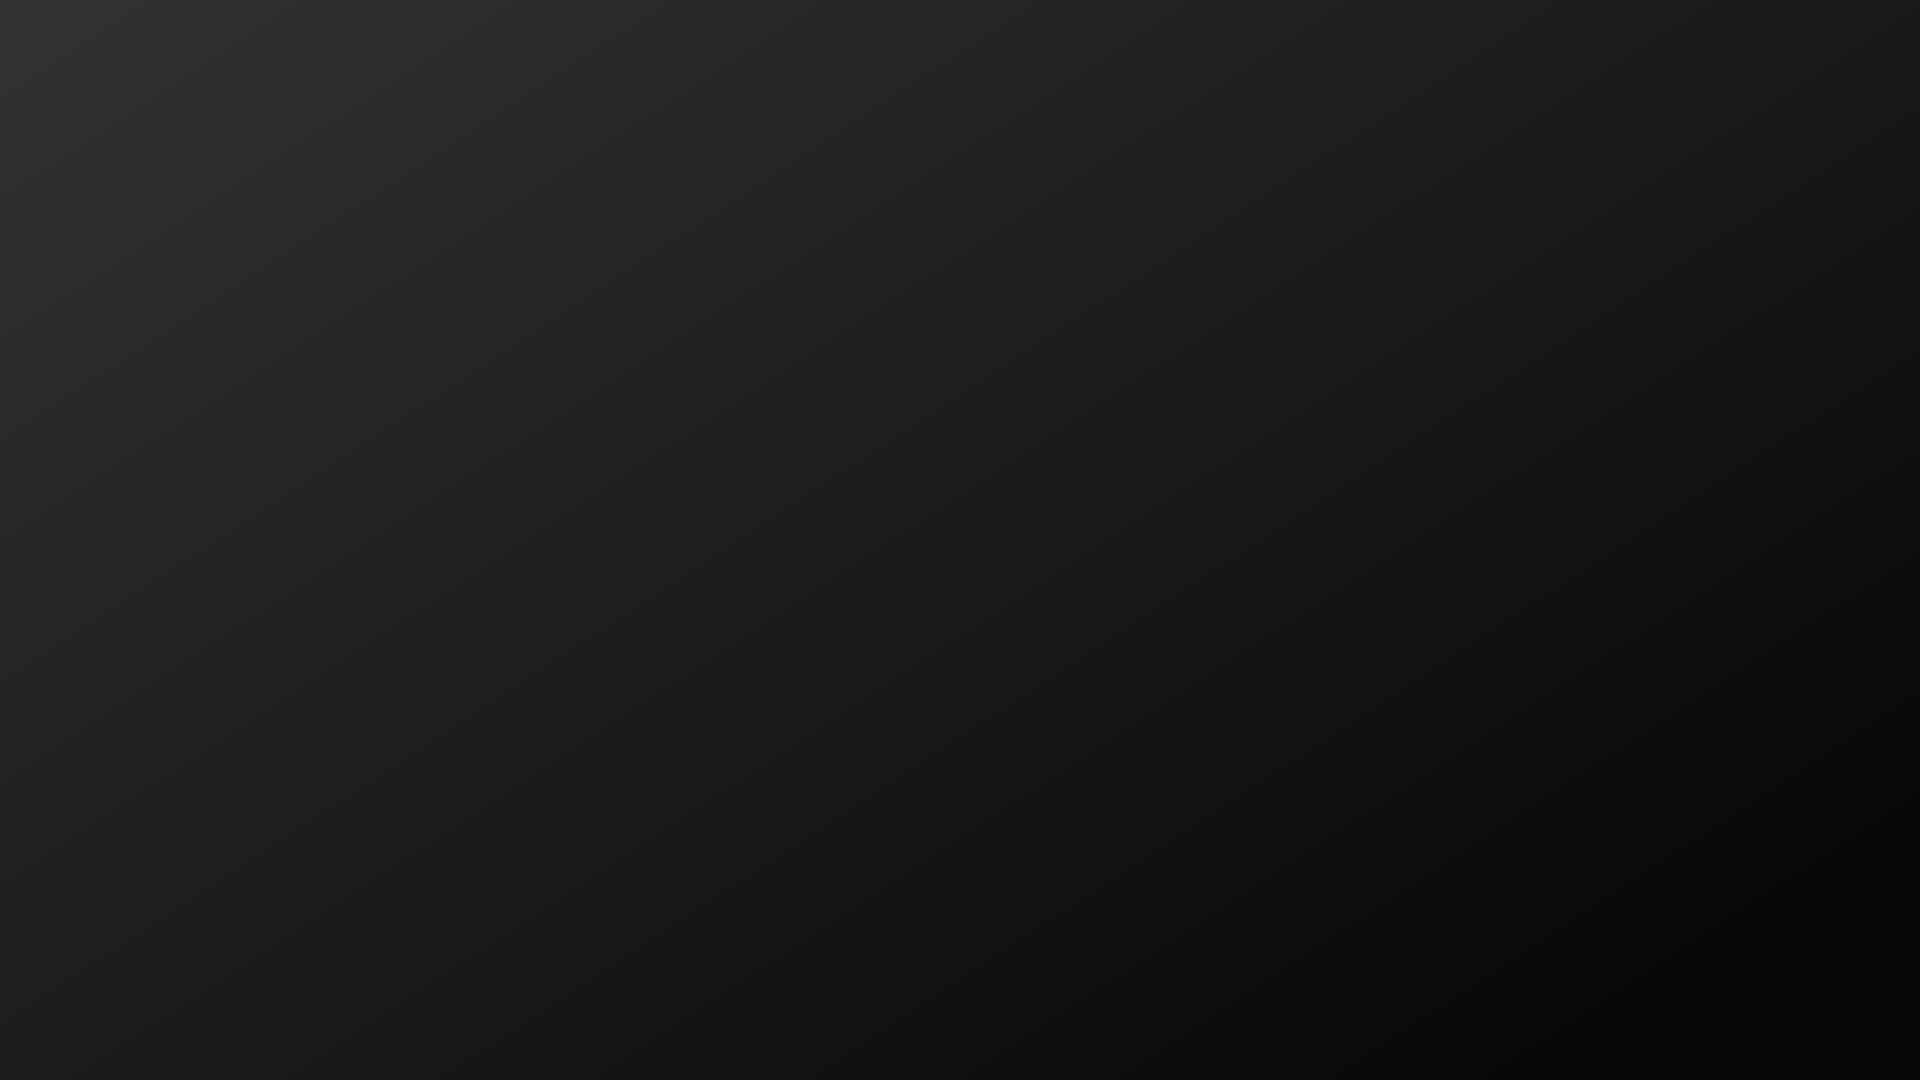
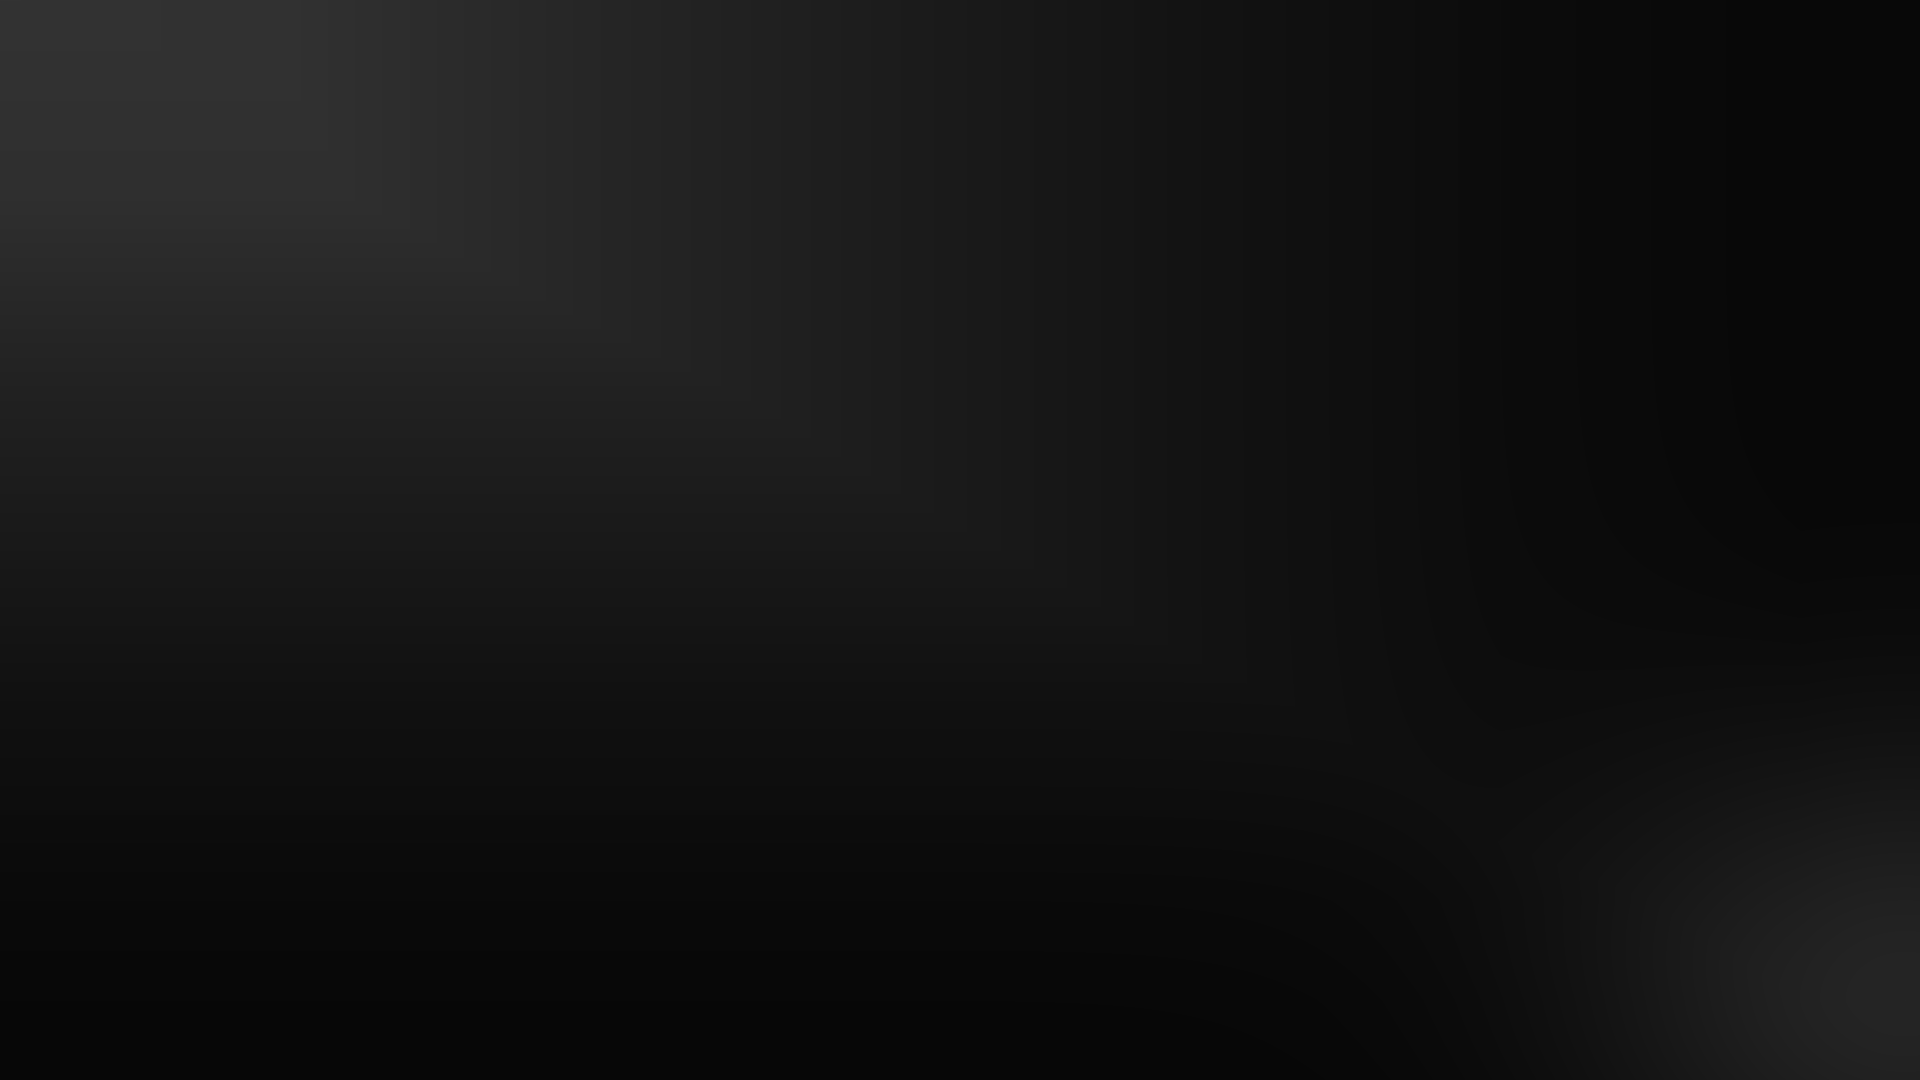
fix(aura-window): Plex-matched radii, gradient, and content-width chips
- Real capsule radii via dedicated textures (cap-r16/22/24/26/32/36):
  Kodi's 9-slice border can never exceed the texture's intrinsic arc,
  so every pill/tab/kebab rendered at ~16px regardless of border.
- Content-width chip row: new _layout_divert_toolbar() measures labels
  and reflows pills with 16px gaps, matching Plex's hugging behavior.
- Rebuilt bg-gradient.png from measured Plex falloff tables
  (min(x,y) interpolation + bottom-right halo).
- Focus ring: full 4px stroke at texture edge, outer box = zoomed
  poster + 6px all around.
- Watched badge: soft 40px disc + thicker 20px check, centered ~20px
  from the poster edge.
- Recessed clock: 125x48 capsule with centered time at Plex's 205
  brightness; years at 160; sidebar icons at 255 with outline home.

Generated with [Devin](https://devin.ai)

Changed region(s): [[0.9062, 0.825, 1.0, 1.0]]

diff --git a/kodi/addons/script.akasha.aura/resources/lib/aura_window.py b/kodi/addons/script.akasha.aura/resources/lib/aura_window.py
@@ -2128,6 +2128,61 @@ class AuraWindow(xbmcgui.WindowXMLDialog):
             self.getControl(DIVERT_SORT_BUTTON_ID).setLabel(sort_label)
         except RuntimeError:
             pass
+        self._layout_divert_toolbar()
+
+    def _layout_divert_toolbar(self):
+        """Reflow the library chip row so each pill hugs its label like Plex
+        (Kodi has no auto-width controls: measure the text, then reposition
+        the whole chain). All positions are in the chip group's coordinate
+        space, so the recessed-state slide still applies on top."""
+        def label_of(cid):
+            try:
+                return self.getControl(cid).getLabel()
+            except RuntimeError:
+                return ''
+
+        def put(cid, x, y, w=None):
+            try:
+                ctrl = self.getControl(cid)
+                ctrl.setPosition(x, y)
+                if w is not None:
+                    ctrl.setWidth(w)
+            except RuntimeError:
+                pass
+
+        def pill_w(text, pad=34):
+            return max(58, int(round(11 * len(text))) + pad)
+
+        y = 190
+        x = 127
+        w = pill_w(label_of(DIVERT_FILTER_BUTTON_ID))
+        for cid in (DIVERT_FILTER_BUTTON_ID, 3241, 3242):
+            put(cid, x, y, w)
+        x += w + 16
+        w = pill_w(label_of(3210))
+        put(3221, x, y, w)
+        put(3210, x, y, w)
+        x += w + 16
+        put(3222, x, y)
+        x += 46 + 16
+        w = pill_w(label_of(DIVERT_SORT_BUTTON_ID)) + 40
+        put(DIVERT_SORT_BUTTON_ID, x, y, w)
+        put(3223, x + 17, 202)
+        put(3224, x + 17, 202)
+        put(3243, x + 45, y, w - 45)
+        put(3244, x + 45, y, w - 45)
+        x += w + 16
+        w = pill_w(label_of(DIVERT_GENRE_BUTTON_ID))
+        for cid in (DIVERT_GENRE_BUTTON_ID, 3245, 3246):
+            put(cid, x, y, w)
+        x += w + 16
+        w = max(44, int(round(11 * len(label_of(3220)))) + 24)
+        put(3225, x, 198, w)
+        put(3220, x, 198, w)
+        x += w + 16
+        put(3218, x, y)
+        put(3226, x + 12, 202)
+        put(3227, x + 12, 202)
 
     def _render_divert_status(self, section, error=None):
         try:
@@ -2148,6 +2203,7 @@ class AuraWindow(xbmcgui.WindowXMLDialog):
                 status.setLabel(label)
         except RuntimeError:
             pass
+        self._layout_divert_toolbar()
 
     def _divert_open_filter_menu(self):
         if not self._divert_sections:
